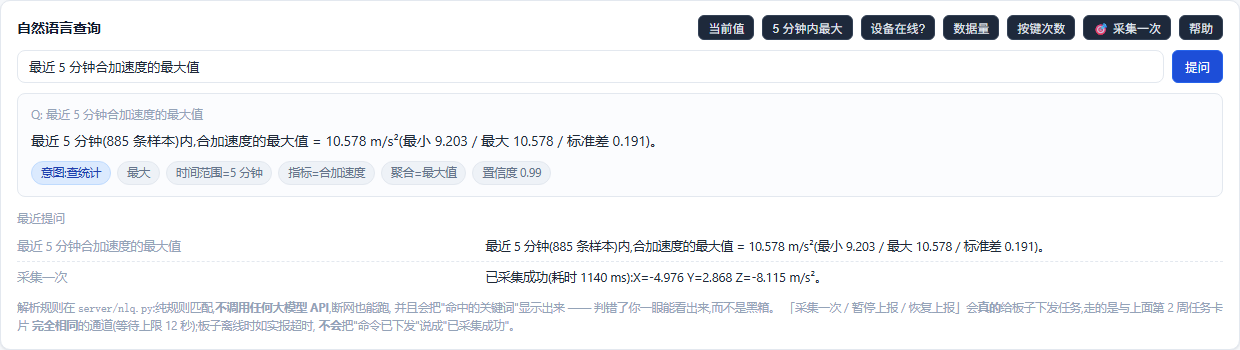
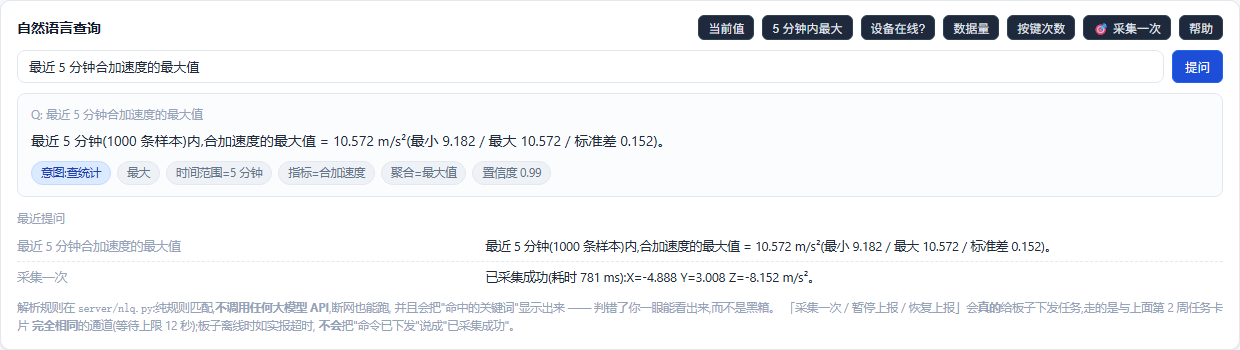
fix: 自然语言采集指令补全口语说法
「帮我采一次」无法识别 —— 原规则只穷举了"采集/采样/测一次"等固定词,
口语里"采一次"没有"集"字就漏了。

改为「动词 + 可选数量 + 量词」组合匹配(采/测/量/取/抓/读 × 次/下/回/遍),
并加反向用例确认「数据量有多少」不会被误判成采集。自测 19/19 通过。

Changed region(s): [[0.0919, 0.3714, 0.5516, 0.4286], [0.429, 0.6857, 0.8581, 0.7429], [0.4597, 0.7714, 0.6742, 0.8286]]

diff --git a/server/nlq.py b/server/nlq.py
@@ -129,7 +129,10 @@ def _first_match(rules, text: str):
 #      「信号怎么样」会被误判成统计
 #   3) latest 放最后,它只靠「多少/数值」这类弱特征兜底
 _INTENT_RULES: List[tuple] = [
-    ("sample", r"(采集一次|采集|采样|测一次|测一下|量一下|取一次|抓一次|来一次|取个值|读一次)"),
+    # 口语说法要覆盖全:「帮我采一次」里没有"采集"二字,只有"采一次",
+    # 所以按「动词 + 可选数量 + 量词」组合匹配,而不是穷举词表。
+    ("sample", r"(采集|采样|采|测|量|取|抓|读)(一|1|两|俩|几)?(次|下|回|遍|组|批)"
+               r"|采集|采样|取个值|采个值|读个数|来一次"),
     ("pause", r"(暂停|停一下|别传了|停止上报|停止上传)"),
     ("resume", r"(恢复|继续|重新开始|接着传|恢复上报|重新上传)"),
     ("device_status", r"(在线|离线|掉线|还活着|状态如何|信号|rssi|连接着|通不通|还在|设备状态|板子状态)"),
@@ -236,10 +239,16 @@ if __name__ == "__main__":
         "信号怎么样",
         "有多少条数据",
         "采集一次",
+        "帮我采一次",        # 口语:没有"采集"二字
+        "采一下",
+        "再测一次",
+        "帮我量一下",
         "暂停上报",
         "恢复上报",
         "最近有几次按键触发",
         "你能做什么",
+        "数据量有多少",      # 反向:不能误判成 sample
+        "一共有多少条数据",  # 反向
         "帮我看看今天的天气",
     ]
     for c in cases:
